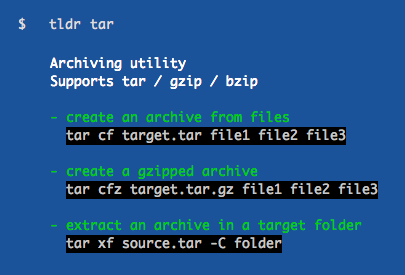
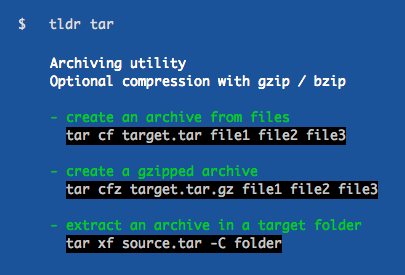
Fix tar example

Changed region(s): [[0.1185, 0.2618, 0.8593, 0.32]]

diff --git a/pages/osx/tar.md b/pages/osx/tar.md
@@ -1,7 +1,7 @@
 # tar
 
 - Archiving utility
-- Supports tar / gzip / bzip
+- Optional compression with gzip / bzip
 
 ## create an archive from files
 
